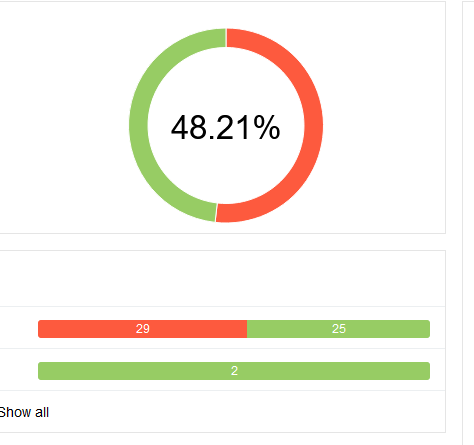
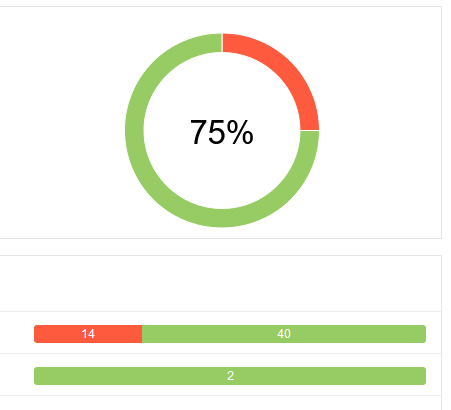
fixes

Changed region(s): [[0.0, 0.7902, 0.9623, 0.9366], [0.2483, 0.0585, 0.714, 0.5561], [0.0621, 0.7024, 0.9313, 0.761]]

diff --git a/src/main/java/ru/netology/utils/DatabaseQueriesUtils.java b/src/main/java/ru/netology/utils/DatabaseQueriesUtils.java
@@ -28,12 +28,26 @@ public class DatabaseQueriesUtils {
                         String.class));
     }
 
+    public static void deleteRowsFromMysql() {
+        getJdbcTemplate().execute(SqlScripts.DELETE_ROWS_MYSQL1.getSqlQuery());
+        getJdbcTemplate().execute(SqlScripts.DELETE_ROWS_MYSQL2.getSqlQuery());
+        getJdbcTemplate().execute(SqlScripts.DELETE_ROWS_MYSQL3.getSqlQuery());
+    }
+
+    public static void deleteRowsFromPostgres() {
+        getJdbcTemplate().execute(SqlScripts.DELETE_ROWS_POSTGRES.getSqlQuery());
+    }
+
     @Getter
     public enum SqlScripts {
 
         SELECT_LAST_STATUS_DEBIT("SELECT pe.status FROM payment_entity pe ORDER BY pe.created DESC LIMIT 1;"),
         SELECT_LAST_STATUS_CREDIT("SELECT pe.status FROM credit_request_entity pe ORDER BY pe.created DESC LIMIT 1;"),
         SELECT_CREDIT_ROWS_COUNT("SELECT count(*) FROM credit_request_entity;"),
+        DELETE_ROWS_POSTGRES("TRUNCATE credit_request_entity, payment_entity, order_entity;"),
+        DELETE_ROWS_MYSQL1("TRUNCATE credit_request_entity"),
+        DELETE_ROWS_MYSQL2("TRUNCATE payment_entity"),
+        DELETE_ROWS_MYSQL3("TRUNCATE order_entity;"),
         SELECT_DEBIT_ROWS_COUNT("SELECT count(*) FROM payment_entity;");
 
         private final String sqlQuery;

diff --git a/src/main/java/ru/netology/utils/DatabaseConnectionUtils.java b/src/main/java/ru/netology/utils/DatabaseConnectionUtils.java
@@ -1,5 +1,6 @@
 package ru.netology.utils;
 
+import lombok.Getter;
 import org.aeonbits.owner.ConfigCache;
 import org.springframework.jdbc.core.JdbcTemplate;
 import org.springframework.jdbc.datasource.DriverManagerDataSource;
@@ -14,6 +15,8 @@ public class DatabaseConnectionUtils {
 
     static final String PASSWORD = configuration.databasePassword();
     static final String USERNAME = configuration.databaseUsername();
+
+    @Getter
     static final String database = System.getProperty("database");
 
     static {

diff --git a/src/test/java/tests/BaseTestClass.java b/src/test/java/tests/BaseTestClass.java
@@ -55,7 +55,7 @@ public class BaseTestClass implements TestWatcher {
     protected static int debitRowsCount;
     protected static int creditRowsCount;
 
-    @Step("Проверка статуса оплаты в БД")
+    @Step("Проверка создания записи в БД")
     protected static void assertRowsCount(CardTypes cardType, boolean isCreated) {
         switch (cardType) {
             case DEBIT: {

diff --git a/documents/report.md b/documents/report.md
@@ -4,7 +4,7 @@
 
 ## Тест-кейсы:
 
-Всего составлено 56 тест-кейсов. Процент успешных тестов: 48.21%
+Всего составлено 56 тест-кейсов. Процент успешных тестов: 75.0%
 
 В проекте есть следующие тестовые классы:
 
@@ -22,8 +22,8 @@
 |                       | Кол-во тестов | Пройдено | Упало | Процент, % |
 |:----------------------|:-------------:|:--------:|:-----:|-----------:|
 | PositiveScenariosTest |       2       |    2     |   0   |       100% |
-| NegativeScenariosTest |      54       |    25    |  29   |      46.3% |
-| Всего                 |      56       |    27    |  29   |     48.21% |
+| NegativeScenariosTest |      54       |    40    |  14   |      74.1% |
+| Всего                 |      56       |    42    |  14   |      75.0% |
 
 Были найдены баги и составлены баг-репорты [Баги](https://github.com/AnastasiaBorisovna/Diplom/issues)
 
